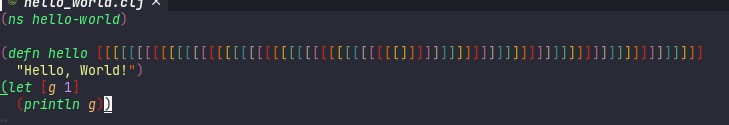
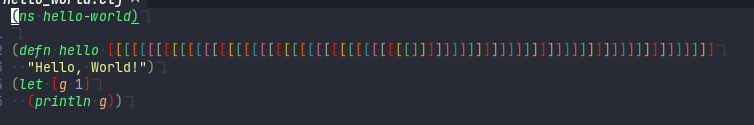
Update screenshots, fix README typo

Changed region(s): [[0.0, 0.336, 0.9657, 0.912], [0.0, 0.0, 0.2414, 0.216]]

diff --git a/README.md b/README.md
@@ -5,8 +5,8 @@ Rainbow parens for neovim using tree-sitter. Needs [nvim-treesitter](https://git
 ```lua
 require'nvim-treesitter.config'.setup {
   rainbow = {
-    enable = true
-    disable = {'lua'} --please disable lua for now
+    enable = true,
+    disable = {'lua'} -- please disable lua for now
   }
 }
 ```
